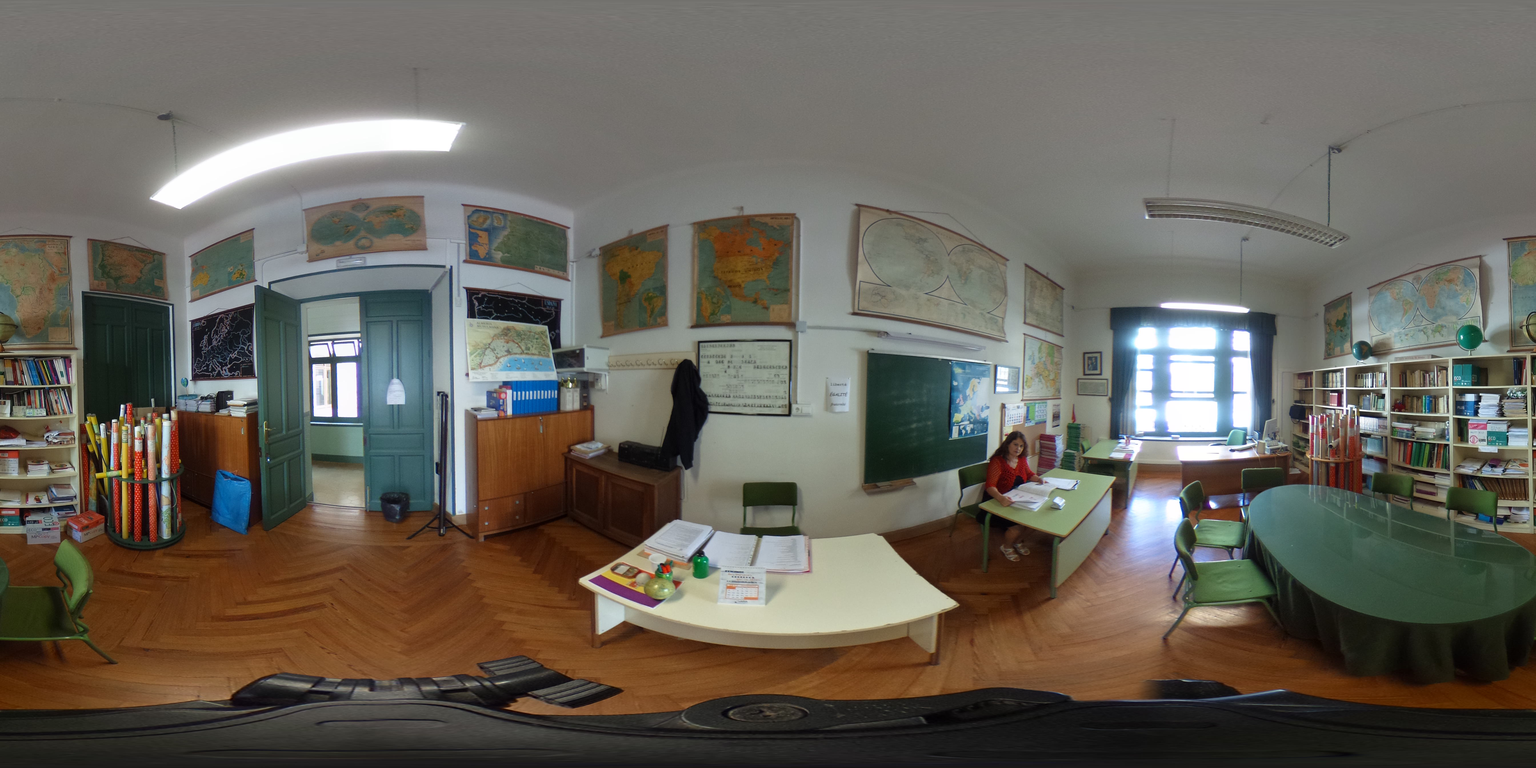
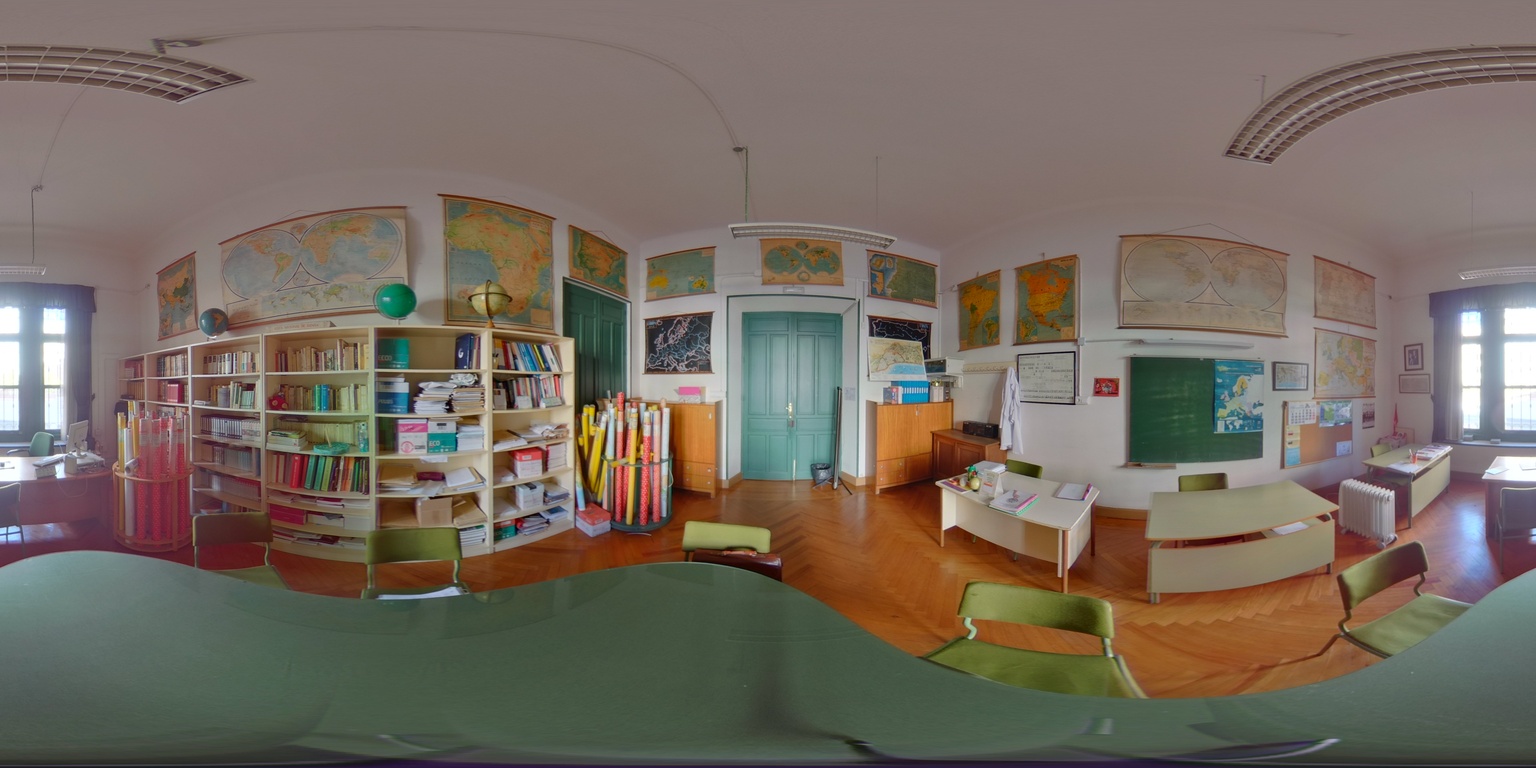
Agregada p1p5f1 y cambiada la p2p5
Nueva camara

diff --git a/pannellum.html b/pannellum.html
@@ -325,7 +325,7 @@ viewer = pannellum.viewer('panorama', {
         "showControls": false,
         "compass":false,
         "preview": "preview2.png",
-        "hotSpotDebug": false
+        "hotSpotDebug": true
     },
 
     "scenes": {
@@ -1266,9 +1266,37 @@ viewer = pannellum.viewer('panorama', {
                     "targetYaw": -33.95,
                     "clickHandlerFunc": puntos,
                     "clickHandlerArgs": "p1punto6"
+                }, 
+                {
+                    "pitch": 1,
+                    "yaw": -166,
+                    "type": "scene",
+                    "sceneId": "p1p5f1",
+                    "cssClass": "custom-hotspot-salto",
+
                 }
             ]   
                 },
+        
+          "p1p5f1": {
+            "hfov": 120,
+            "yaw": 60,
+            "pitch": 22,
+            "type": "equirectangular",
+            "panorama": "imagenes/bajaplanta/p1p5f1.JPG",
+            "hotSpots": [
+                {
+                    "pitch": -1,
+                    "yaw": 4,
+                    "type": "scene",
+                    "sceneId": "p1p5",
+                    "cssClass": "custom-hotspot-salto",
+                    "clickHandlerFunc": puntos,
+                    "clickHandlerArgs": "p1punto5"
+                }
+            ]   
+                },
+        
         
         "p1p6": {
             "hfov": 120,
